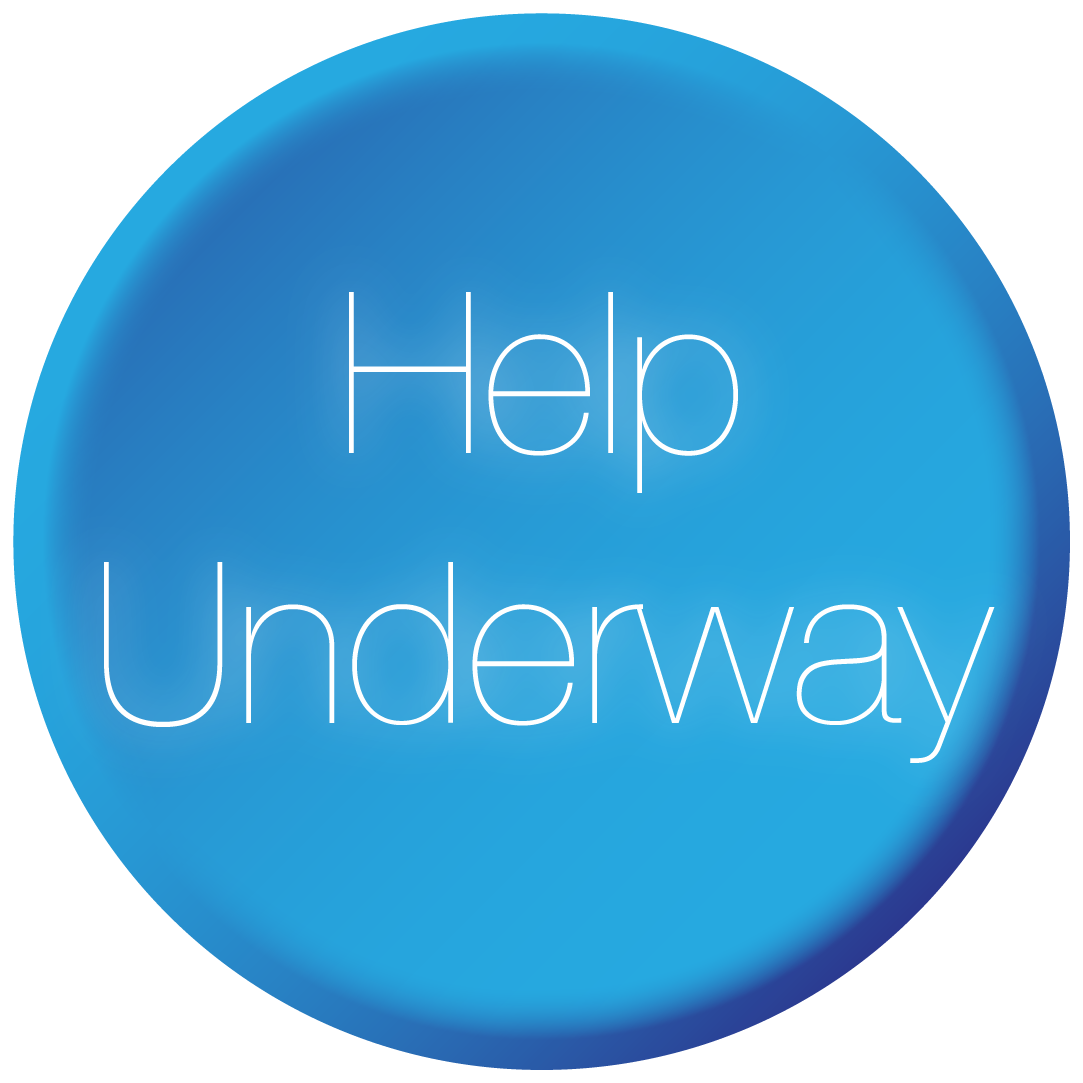
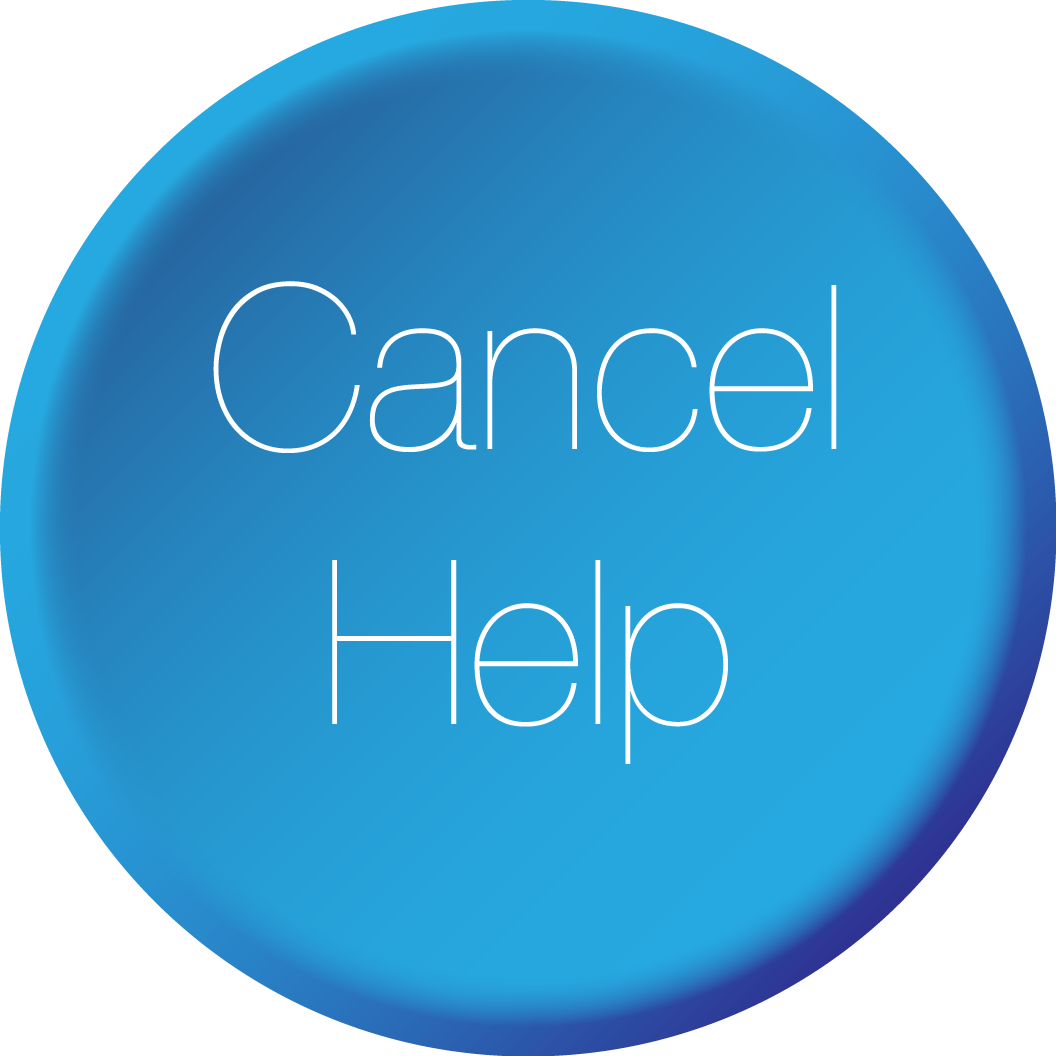
final commit for demo

diff --git a/HelpMePlz/DetailHelpStudentViewController.m b/HelpMePlz/DetailHelpStudentViewController.m
@@ -46,17 +46,18 @@
     self.notesTextview.layer.cornerRadius = 10.0f;
     
     self.hasChanged = NO;
+    self.notesTextview.delegate = self;
 }
 
 - (IBAction)startAssisting:(UIButton *)sender{
     self.hasChanged =! self.hasChanged;
     if (self.hasChanged) {
         [self.startAssistingButton setImage:[UIImage imageNamed:@"buttons-04.png"] forState:UIControlStateNormal];
+    }
+    else {
         self.notesTextview.hidden = NO;
         self.issueResolvedSwitch.hidden = NO;
         self.issueResolvedLabel.hidden = NO;
-    }
-    else {
         self.startAssistingButton.hidden = YES;
         self.submitButton.hidden = NO;
     }
@@ -105,6 +106,10 @@
     NSLog(@"touchesBegan:withEvent:");
     [self.view endEditing:YES];
     [super touchesBegan:touches withEvent:event];
+}
+
+- (void)textViewDidBeginEditing:(UITextView *)textView {
+    [self.notesTextview setText:@""];
 }
 
 @end

diff --git a/HelpMePlz/StudentViewController.m b/HelpMePlz/StudentViewController.m
@@ -19,6 +19,7 @@
 - (void)viewDidLoad {
     [super viewDidLoad];
     self.hasChanged = NO;
+    self.helpLabel.hidden = YES;
 }
 
 - (IBAction)requestHelp:(UIButton *)sender {
@@ -73,9 +74,11 @@
         }];
         
         [self.helpRequestLabel setImage:[UIImage imageNamed:@"buttons-01.png"] forState:UIControlStateNormal];
+        self.helpLabel.hidden = NO;
     }
     else {
         [self.helpRequestLabel setImage:[UIImage imageNamed:@"buttons-02.png"] forState:UIControlStateNormal];
+        self.helpLabel.hidden = YES;
     }
 }
 

diff --git a/HelpMePlz/StudentViewController.h b/HelpMePlz/StudentViewController.h
@@ -14,6 +14,7 @@
 
 @interface StudentViewController : UIViewController
 
+@property (weak, nonatomic) IBOutlet UILabel *helpLabel;
 @property (weak, nonatomic) IBOutlet UIButton *helpRequestLabel;
 @property (strong, nonatomic) NSArray *onlineTAs;
 
